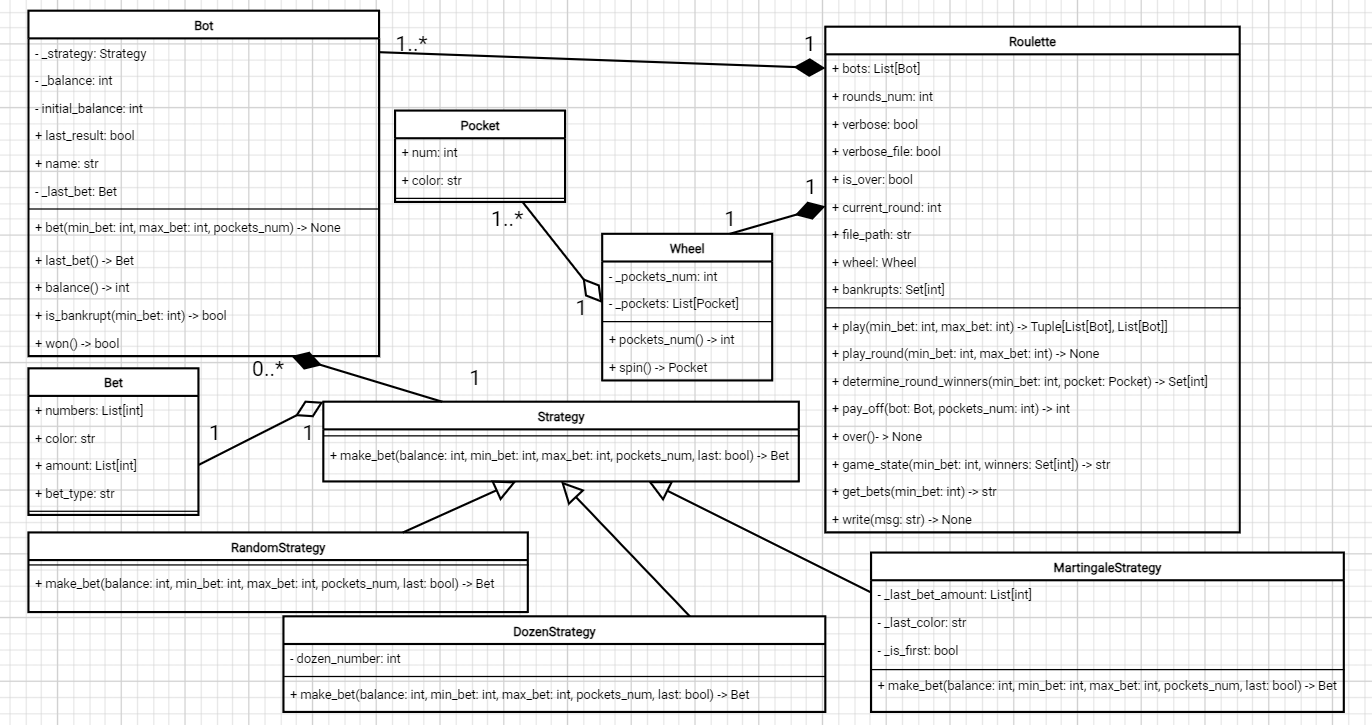
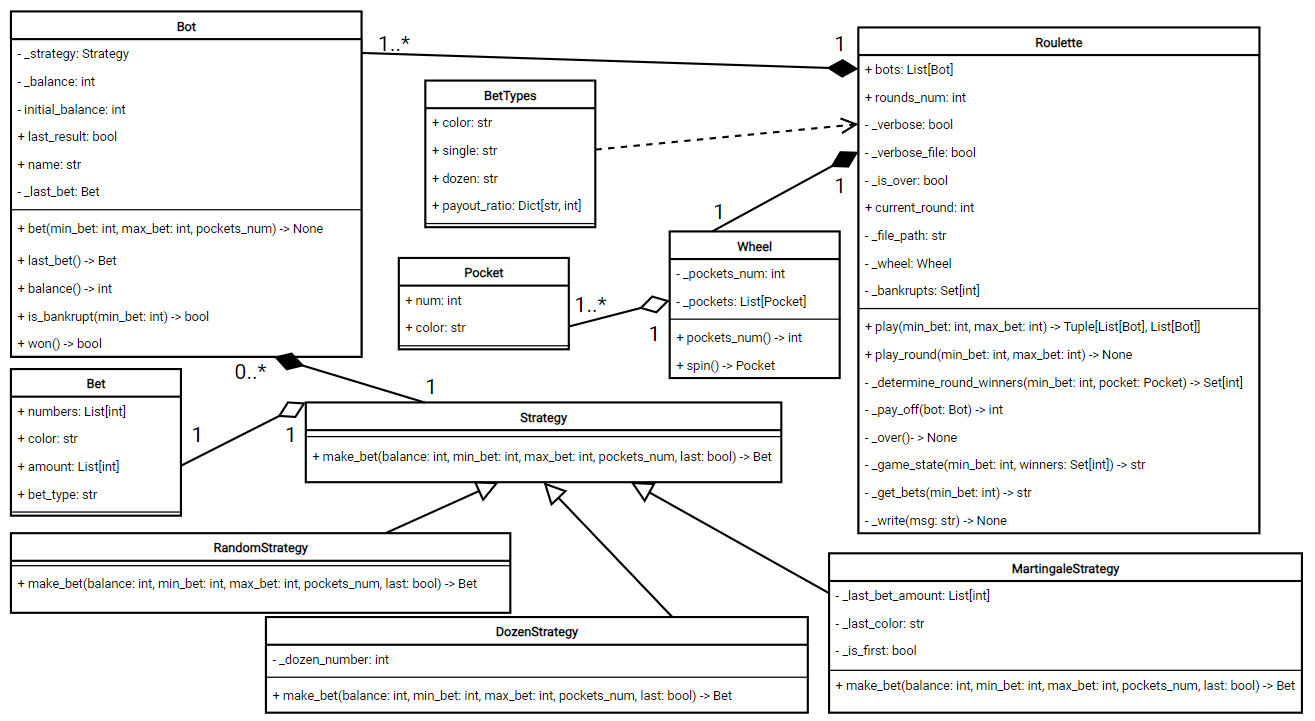
Change access modifiers

diff --git a/project/game/roulette.py b/project/game/roulette.py
@@ -13,19 +13,19 @@ class Roulette:
         List of bots that play roulette
     rounds_num : int
         Maximum number of rounds
-    verbose : bool
+    _verbose : bool
         Flag to signal whether to print info
-    verbose_file : bool
+    _verbose_file : bool
         Flag to signal whether to write to file
-    is_over : bool
+    _is_over : bool
         Flag that indicates end of game
     current_round : int
         Number of round that is currently played
-    file_name : str
+    _file_name : str
         Path to file that stores example of playing game
-    wheel : Wheel
+    _wheel : Wheel
         Wheel to determine winning pocket
-    bankrupts: Set[int]
+    _bankrupts: Set[int]
         Indexes of bots with no money to play
 
     Methods
@@ -34,18 +34,18 @@ class Roulette:
         Start and play roulette
     play_round(min_bet, max_bet)
         Play one round of game
-    determine_round_winners(min_bet, pocket)
+    _determine_round_winners(min_bet, pocket)
         Determine winners of current round
-    pay_off(bot)
+    _pay_off(bot)
         Calculate winning amount
-    over(bankrupts)
+    _over()
         Determine if game is over
-    game_state(min_bet, winners)
+    _game_state(min_bet, winners)
         Get current state of game
-    get_bets(min_bet)
+    _get_bets(min_bet)
         Get bets made in current round
-    write(msg)
-        Write msg to file and print it if verbose is True
+    _write(msg)
+        Write msg to file and print it if _verbose is True
     """
 
     def __init__(
@@ -74,18 +74,18 @@ class Roulette:
         """
         self.bots = bots
         self.rounds_num = rounds_num
-        self.verbose = verbose
-        self.verbose_file = verbose_file
-        self.is_over = False
+        self._verbose = verbose
+        self._verbose_file = verbose_file
+        self._is_over = False
         self.current_round = 0
-        self.file_name = file_name
-        self.wheel = Wheel()
-        self.bankrupts: Set[int] = set()
+        self._file_name = file_name
+        self._wheel = Wheel()
+        self._bankrupts: Set[int] = set()
 
     def play(self, min_bet: int = 1, max_bet: int = 100) -> Tuple[List[Bot], List[Bot]]:
         """Start and play roulette game. Return winners and losers of game
 
-        If verbose flag is True then print process of game.
+        If _verbose flag is True then print process of game.
 
         Parameters
         ----------
@@ -98,17 +98,17 @@ class Roulette:
         ------
         Tuple[List[Bot], List[Bot]]
         """
-        self.write("Roulette\n\n")
-        self.write(f"Minimum bet: {min_bet}\n")
-        self.write(f"Maximum bet: {max_bet}\n")
-        self.write(f"Number of rounds: {self.rounds_num}\n\n")
-        self.write(self.game_state(min_bet, set()))
+        self._write("Roulette\n\n")
+        self._write(f"Minimum bet: {min_bet}\n")
+        self._write(f"Maximum bet: {max_bet}\n")
+        self._write(f"Number of rounds: {self.rounds_num}\n\n")
+        self._write(self._game_state(min_bet, set()))
 
-        while not self.is_over:
+        while not self._is_over:
             self.play_round(min_bet, max_bet)
-            self.over()
+            self._over()
 
-        self.write("\nGame is over\n\n")
+        self._write("\nGame is over\n\n")
         game_winners: List[Bot] = []
         game_losers: List[Bot] = []
         # show winners and losers of game
@@ -117,7 +117,7 @@ class Roulette:
                 game_winners.append(bot)
             else:
                 game_losers.append(bot)
-            self.write(bot.name + (" won\n" if bot.won() else " lost\n"))
+            self._write(bot.name + (" won\n" if bot.won() else " lost\n"))
 
         return (game_winners, game_losers)
 
@@ -135,24 +135,24 @@ class Roulette:
         ------
         None
         """
-        self.write("=== ROUND " + str(self.current_round + 1) + " ===\n\n")
-        pocket = self.wheel.spin()
+        self._write("=== ROUND " + str(self.current_round + 1) + " ===\n\n")
+        pocket = self._wheel.spin()
 
-        self.write("The wheel is spinning\n\n")
+        self._write("The wheel is spinning\n\n")
 
         # bots make bet
         for i in range(len(self.bots)):
             if not self.bots[i].is_bankrupt(min_bet):
-                self.bots[i].bet(min_bet, max_bet, self.wheel.pockets_num)
+                self.bots[i].bet(min_bet, max_bet, self._wheel.pockets_num)
             else:
-                self.bankrupts.add(i)
+                self._bankrupts.add(i)
 
-        self.write(self.get_bets(min_bet))
-        self.write(
+        self._write(self._get_bets(min_bet))
+        self._write(
             f"The winning number and color: {str(pocket.num)} {str(pocket.color)}\n\n"
         )
 
-        winners = self.determine_round_winners(min_bet, pocket)
+        winners = self._determine_round_winners(min_bet, pocket)
 
         # collect bets and give the winnings to winners
         for i in range(len(self.bots)):
@@ -161,12 +161,12 @@ class Roulette:
                 self.bots[i].balance -= sum(self.bots[i].last_bet.amount)
                 if i in winners:
                     self.bots[i].last_result = True
-                    self.bots[i].balance += self.pay_off(self.bots[i])
+                    self.bots[i].balance += self._pay_off(self.bots[i])
 
-        self.write(self.game_state(min_bet, winners))
+        self._write(self._game_state(min_bet, winners))
         self.current_round += 1
 
-    def determine_round_winners(self, min_bet: int, pocket: Pocket) -> Set[int]:
+    def _determine_round_winners(self, min_bet: int, pocket: Pocket) -> Set[int]:
         """Determine winners of current round and return their indexes
 
         Parameters
@@ -193,7 +193,7 @@ class Roulette:
 
         return winners
 
-    def pay_off(self, bot: Bot) -> int:
+    def _pay_off(self, bot: Bot) -> int:
         """Calculate winning amount in current round
 
         Parameters
@@ -218,15 +218,15 @@ class Roulette:
 
         return won
 
-    def over(self) -> None:
-        """Determine if game is over and set is_over flag to True"""
+    def _over(self) -> None:
+        """Determine if game is over and set _is_over flag to True"""
         if (
-            len(self.bankrupts) >= len(self.bots) - 1
+            len(self._bankrupts) >= len(self.bots) - 1
             or self.current_round == self.rounds_num
         ):
-            self.is_over = True
+            self._is_over = True
 
-    def game_state(self, min_bet: int, winners: Set[int]) -> str:
+    def _game_state(self, min_bet: int, winners: Set[int]) -> str:
         """Return current state of game as a string"""
 
         msg = "Current game state:\n-------------------\n"
@@ -252,7 +252,7 @@ class Roulette:
         msg += bot_msg + "\n" + win_msg + "\n" + lose_msg + "\n\n"
         return msg
 
-    def get_bets(self, min_bet: int) -> str:
+    def _get_bets(self, min_bet: int) -> str:
         """Return bets made by bots in current round as a string
 
         Parameters
@@ -281,14 +281,14 @@ class Roulette:
 
         return msg + "\n\n"
 
-    def write(self, msg: str) -> None:
-        """Write msg to file if verbose_file flag is True
+    def _write(self, msg: str) -> None:
+        """Write msg to file if _verbose_file flag is True
 
-        If verbose flag is True then print msg
+        If _verbose flag is True then print msg
         """
-        if self.verbose_file:
-            with open(self.file_name, "a") as f:
+        if self._verbose_file:
+            with open(self._file_name, "a") as f:
                 f.write(msg)
 
-        if self.verbose:
+        if self._verbose:
             print(msg, end="")
